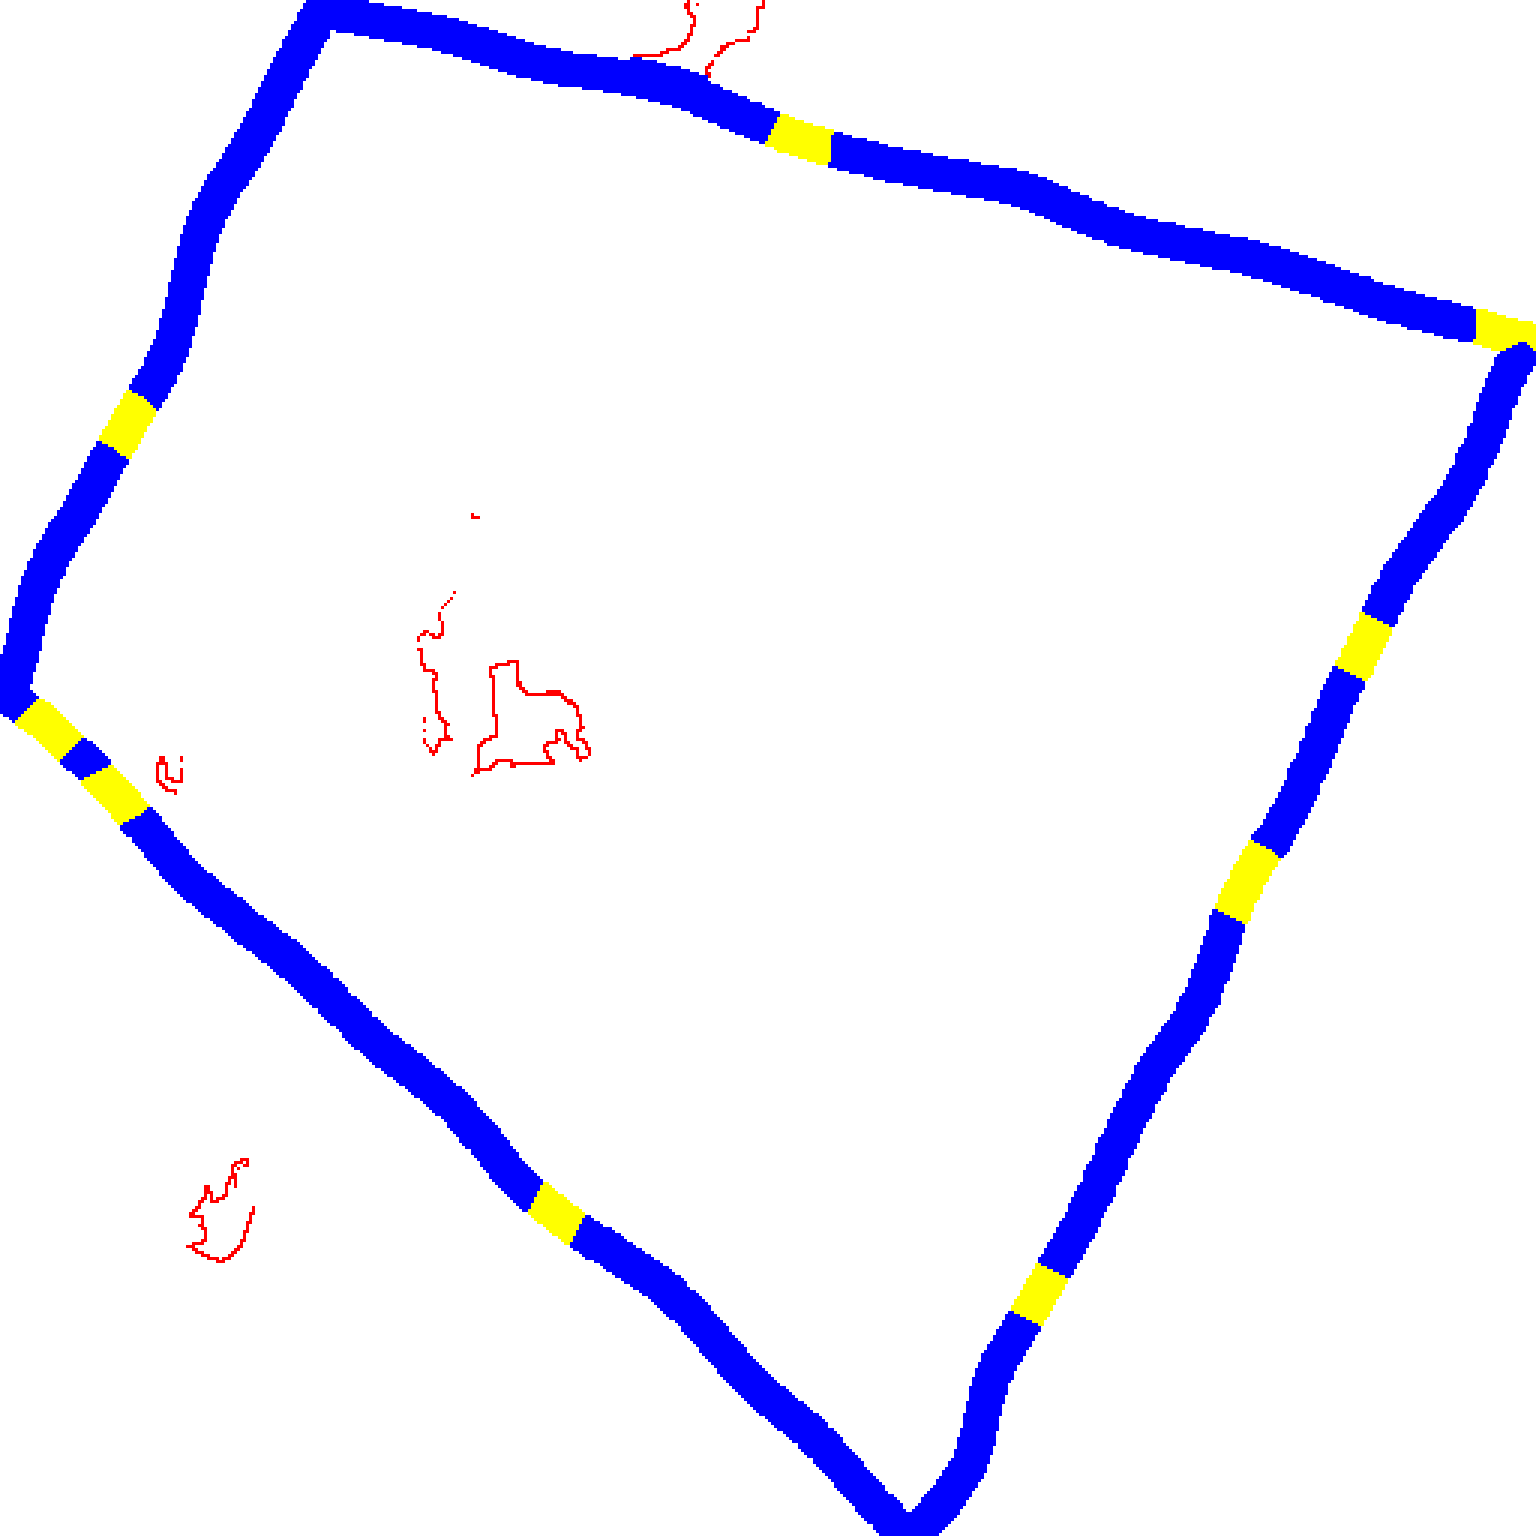
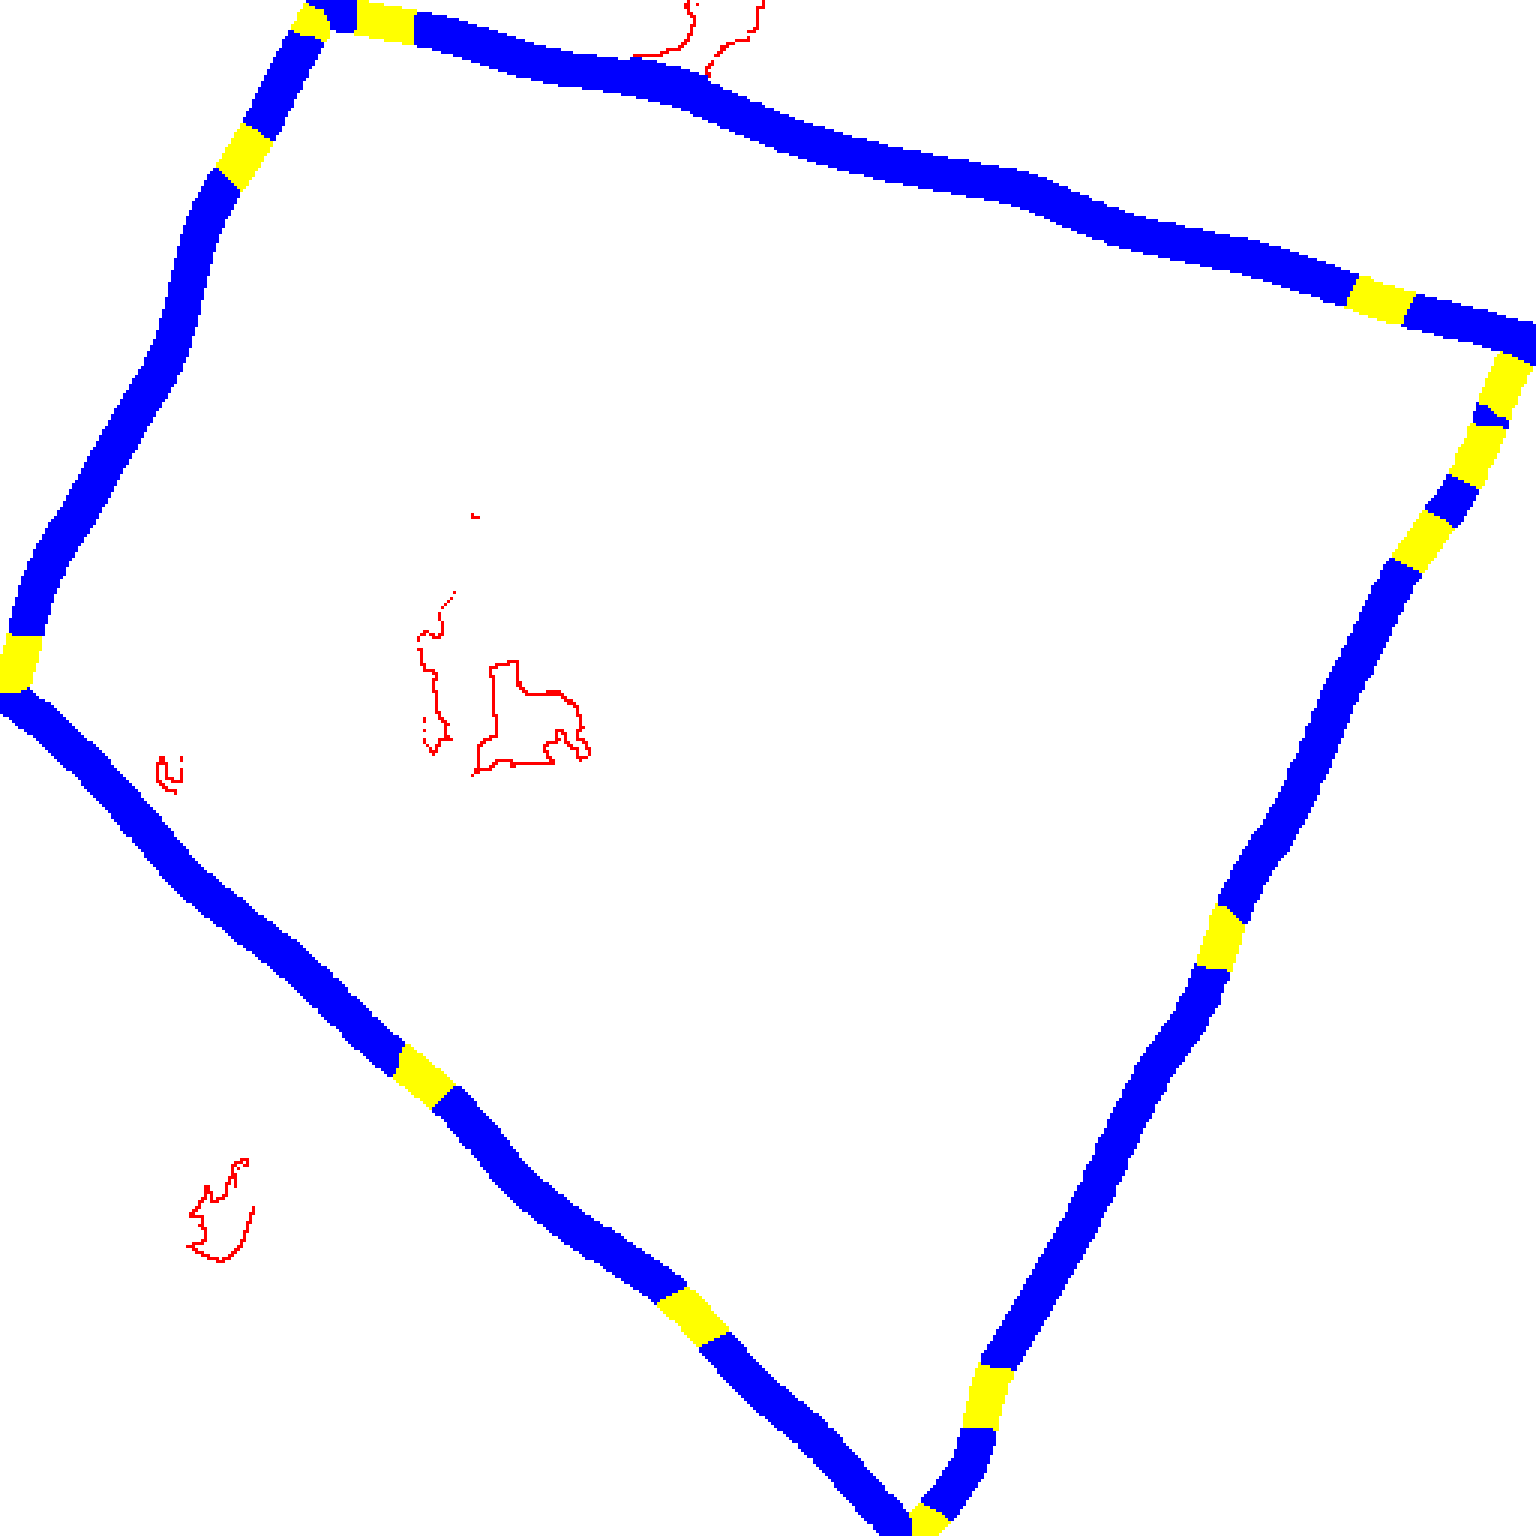
finally works over rivers, chunks etc awesome

diff --git a/src/modules/AbtractMapGeneration.js b/src/modules/AbtractMapGeneration.js
@@ -33,7 +33,11 @@ async function generatePortalMap(Imglocation) {//generate the portals of the sub
         const r = data[index];
         const g = data[index + 1];
         const b = data[index + 2];
-        return (r === 255 && g === 255 && (b === 255 || b === 0)); // white or yellow
+        // console.log(typeof r,r,typeof g,g,typeof b,b)
+        // if((r == Number(255) && g == Number(255) &&  b == Number(0))){
+        //     console.log("does actually see b=0",(r === 255 && g === 255 && (b === 255 || b === 0)))
+        // }
+        return (r === Number(255) && g === Number(255) && (b === Number(255) || b === Number(0))); // white or yellow
     }
 
     function detectPortalsForSubgrid(subgridX, subgridY) {
@@ -73,6 +77,22 @@ async function generatePortalMap(Imglocation) {//generate the portals of the sub
             }
 
             if (lastWasWalkable && walkableStart !== -1) {
+                // const runLength = subgridSize - walkableStart;
+                // const candidates = [];
+                // for (let j = walkableStart; j < subgridSize; j++) {
+                //     let x, y;
+                //     switch (edge) {
+                //         case 'top':    x = startX + j; y = startY; break;
+                //         case 'bottom': x = startX + j; y = startY + subgridSize - 1; break;
+                //         case 'left':   x = startX; y = startY + j; break;
+                //         case 'right':  x = startX + subgridSize - 1; y = startY + j; break;
+                //     }
+                //     if (isWalkable(x, y)) candidates.push({ x, y });
+                // }
+                // if (candidates.length > 0) {
+                //     const mid = candidates[Math.floor(candidates.length / 2)];
+                //     portals.push({ x: mid.x, y: mid.y, edge });
+                // }
                 const portalMid = walkableStart + Math.floor((subgridSize - walkableStart) / 2);
                 edgePixels.push(portalMid);
             }
@@ -180,6 +200,9 @@ async function AstarPathCost(rawData,startPixel, goalPixel, segmentOrigin, segme
         const index = (localY * segmentWidth + localX) * 4;
         const r = data[index], g = data[index + 1], b = data[index + 2];
 
+        if(b!=255 && b!=0){
+            console.log("crossing issue!",b)
+        }
         if (r === 255 && g === 255 && b === 255) return 1;     // White → Normal
         if (r === 255 && g === 255 && b === 0)   return 1.5;   // Yellow → Shallow water
         return Infinity;                                      // Red/Black or anything else → Impassable
@@ -306,6 +329,8 @@ async function PortalConnectivity(Imglocation){
                                 const goalPAbove=goalPortalAbove.x +","+goalPortalAbove.y
                                 if (cost !== Infinity) {
                                     await addEdgeToAbstractGraph(abstractMap,key,starty, goalPAbove, cost);
+
+                                    // await addEdgeToAbstractGraph(abstractMap,key,goalPAbove,starty, cost);
                                 }
                             }
                         }
@@ -328,6 +353,8 @@ async function PortalConnectivity(Imglocation){
                                 const goalPBelow=goalPortalBelow.x +","+goalPortalBelow.y//+","+goalPortalBelow.edge
                                 if (cost !== Infinity) {
                                     await addEdgeToAbstractGraph(abstractMap,key,starty, goalPBelow, cost);
+
+                                    // await addEdgeToAbstractGraph(abstractMap,key,goalPBelow,starty , cost);
                                 }
                             }
                         }
@@ -349,6 +376,8 @@ async function PortalConnectivity(Imglocation){
                                 const goalPLeft=goalPortalLeft.x +","+goalPortalLeft.y//+","+goalPortalLeft.edge
                                 if (cost !== Infinity) {
                                     await addEdgeToAbstractGraph(abstractMap,key,starty, goalPLeft, cost);
+
+                                    // await addEdgeToAbstractGraph(abstractMap,key,goalPLeft,starty , cost);
                                 }
                             }
                         }  
@@ -369,6 +398,8 @@ async function PortalConnectivity(Imglocation){
                                 const goalPRight=goalPortalRight.x +","+goalPortalRight.y//+","+goalPortalRight.edge
                                 if (cost !== Infinity) {
                                     await addEdgeToAbstractGraph(abstractMap,key,starty, goalPRight, cost);
+
+                                    // await addEdgeToAbstractGraph(abstractMap,key,goalPRight, starty, cost);
                                 }
                             }
                         }
@@ -483,9 +514,12 @@ async function AstarPathCostPathIncluded(rawData, startPixel, goalPixel, segment
         if (localX < 0 || localX >= segmentWidth || localY < 0 || localY >= segmentHeight) return Infinity;
         const index = (localY * segmentWidth + localX) * 4;
         const r = data[index], g = data[index + 1], b = data[index + 2];
-
-        if (r === 255 && g === 255 && b === 255) return 1;     // White → Normal
-        if (r === 255 && g === 255 && b === 0)   return 1.5;   // Yellow → Shallow water
+        // if(b==Number(0)){
+        // console.log(b, "mmmmmmmmmm.")
+        // }
+        
+        if (r == Number(255) && g == Number(255) && b == Number(255)) return 1;     // White → Normal
+        if (r == Number(255) && g == Number(255) && b == Number(0)){   return 1.5};   // Yellow → Shallow water
         return Infinity;                                      // Others → Impassable
     }
 

diff --git a/src/modules/MovementOrderClass.js b/src/modules/MovementOrderClass.js
@@ -336,7 +336,7 @@ class MovementOrder{
                 const globalNext=await this.getTheNextPixel(CX,CY,PX,PY,goalkey);
                 // const globalNext=await this.getCombinedSubgridsDataForPath(pathnodesCentral,centerpoint)
                 if(globalNext!=false){
-                    // console.log("to the next!", globalNext)
+                    console.log("to the next!", globalNext)
                     this.chunkHoldingCenter=[Math.floor(globalNext.x / 1536),Math.floor(globalNext.y / 1536)]
                     this.OrderCenter=[globalNext.x % 1536,globalNext.y % 1536]
                     
